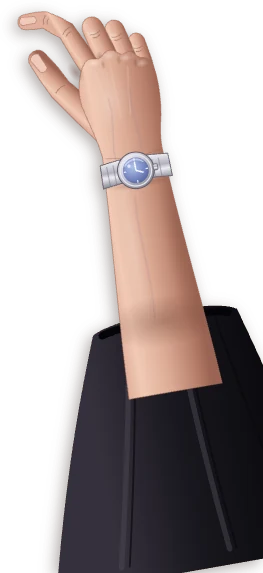
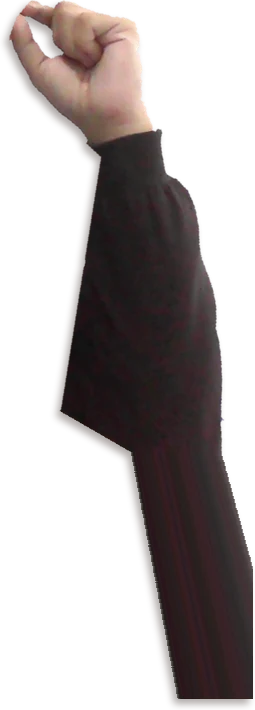
Use a photo of my own hand for the sunglasses gag
The hand that places the shades is now a cutout of the real thing
instead of the painted one. Two scripts beside the source photo
reproduce the art: one keys the hand off the wall, the other grades the
webcam grey up to the portrait's skin, swings the forearm towards
vertical and carries the sleeve past the bottom of the frame, since the
photo stops at the elbow. The drawn SVG stays, retired.

diff --git a/components/ProfileShades.vue b/components/ProfileShades.vue
@@ -5,7 +5,7 @@
       <img src="/profile-shades-glasses.webp" alt="" width="287" height="102" class="profile-shades__art" :style="GLASSES_BOX">
     </div>
     <div ref="handEl" class="profile-shades__layer">
-      <img src="/profile-shades-hand.webp" alt="" width="263" height="573" class="profile-shades__art" :style="HAND_BOX">
+      <img src="/profile-shades-hand.webp" alt="" width="255" height="710" class="profile-shades__art" :style="HAND_BOX">
     </div>
   </div>
 </template>
@@ -18,13 +18,14 @@ import { nextTick, onBeforeUnmount, onMounted, ref, watch } from 'vue'
  * back in Space it takes them off again. One timeline: forward puts them on, reverse takes them off,
  * so switching mid-way just turns around.
  *
- * The art is two pictures baked from assets/profile-shades/*.svg (shadows included): painting the
- * gradient-heavy SVGs live cost the first switch about a third of a second of GPU work.
+ * The glasses are baked from assets/profile-shades/glasses.svg (shadow included): painting the
+ * gradient-heavy SVG live cost the first switch about a third of a second of GPU work. The hand is
+ * Marvin's own, cut out of assets/profile-shades/source/1.jpg by the two scripts beside it.
  */
 
 /* Where each picture sits on the square photo, in % of its width */
 const GLASSES_BOX = { left: '30.56%', top: '23.75%', width: '39.86%' }
-const HAND_BOX = { left: '63.47%', top: '20.42%', width: '36.53%' }
+const HAND_BOX = { left: '64.86%', top: '25.14%', width: '35.42%' }
 /** Where the fingers pinch the glasses: both layers swing around this point */
 const PINCH = '68.3% 26.1%'
 

diff --git a/assets/profile-shades/source/2-bake.py b/assets/profile-shades/source/2-bake.py
@@ -1,0 +1,103 @@
+"""Step 2: bakes public/profile-shades-hand.webp from hand-cut.png.
+
+Grades the webcam's grey skin up to the portrait's, swings the forearm towards vertical, scales the
+hand against the face, carries the sleeve past the bottom of the frame (the photo stops at the elbow)
+and adds the same drop shadow the SVG art used. Prints the HAND_BOX percentages for ProfileShades.vue.
+
+    python assets/profile-shades/source/2-bake.py -30 0.80
+"""
+import sys, math
+from PIL import Image, ImageFilter
+import numpy as np
+
+BAKE='assets/profile-shades/source'
+ROT   = float(sys.argv[1]) if len(sys.argv) > 1 else -30.0
+SCALE = float(sys.argv[2]) if len(sys.argv) > 2 else 0.80
+RENDER = 720                      # the photo's baking width, as in the SVG sources
+PX, PY = 0.683*RENDER, 0.261*RENDER
+SKIN_TARGET = np.array([200.0, 165.0, 150.0])   # the portrait's cheek, a shade darker
+
+# ---- grade: the webcam is grey and hazy next to the studio portrait
+cut = Image.open(BAKE+'/hand-cut.png')
+a = np.asarray(cut).astype(float)
+rgb, alpha = a[...,:3], a[...,3]
+sel = (alpha > 200) & (rgb[...,0]-rgb[...,2] > 12) & (rgb@[0.299,0.587,0.114] > 110)
+def curve(x, g): return np.clip(255*((np.clip(x-8,0,None)/247)**1.08)*g, 0, 252)
+gains = []
+for ch in range(3):
+    lo, hi = 0.5, 3.0
+    for _ in range(40):
+        mid = (lo+hi)/2
+        if curve(rgb[...,ch][sel], mid).mean() < SKIN_TARGET[ch]: lo = mid
+        else: hi = mid
+    gains.append((lo+hi)/2)
+print('channel gains', [round(g,3) for g in gains])
+graded = np.stack([curve(rgb[...,ch], gains[ch]) for ch in range(3)], -1)
+cut = Image.fromarray(np.dstack([graded, alpha]).astype('uint8'))
+# the webcam leaves JPEG speckle the grade amplifies; median it out, keep the alpha crisp
+rgbp = Image.merge('RGB', cut.split()[:3]).filter(ImageFilter.MedianFilter(3))
+cut = Image.merge('RGBA', (*rgbp.split(), cut.split()[-1]))
+
+# ---- rotate + scale, tracking where the fingers pinch
+pinch = (689-686, 305-251)
+rot = cut.rotate(ROT, resample=Image.BICUBIC, expand=True)
+t = math.radians(ROT)
+dx, dy = pinch[0]-cut.width/2, pinch[1]-cut.height/2
+pr = (dx*math.cos(t) + dy*math.sin(t) + rot.width/2, -dx*math.sin(t) + dy*math.cos(t) + rot.height/2)
+art = rot.resize((round(rot.width*SCALE), round(rot.height*SCALE)), Image.LANCZOS)
+pa = (pr[0]*SCALE, pr[1]*SCALE)
+
+# ---- place on the photo-sized canvas, pinch on target
+ox, oy = round(PX-pa[0]), round(PY-pa[1])
+canvas = Image.new('RGBA', (RENDER, RENDER + 160), (0,0,0,0))
+canvas.alpha_composite(art, (ox, oy))
+arr = np.asarray(canvas).astype(float)
+
+# ---- the photo stops at the elbow; carry the sleeve down past the bottom of the frame
+al = arr[...,3] > 128
+ys = np.nonzero(al.any(1))[0]
+y_src = ys.max() - 46                      # a clean row above the diagonal cut
+xs = np.nonzero(al[y_src])[0]
+x0, x1 = xs.min(), xs.max()
+row = arr[y_src:y_src+1, x0:x1+1].copy()
+lean = math.radians(13)
+for i, y in enumerate(range(y_src+1, RENDER + 160)):
+    w = round((x1-x0+1) * (1 + 0.0009*i))
+    x = round(x0 + i*math.tan(lean) - (w-(x1-x0+1))/2)
+    strip = np.asarray(Image.fromarray(row.astype('uint8')).resize((w,1), Image.BICUBIC)).astype(float)[0]
+    x = max(0, min(x, arr.shape[1]-1))
+    strip = strip[:arr.shape[1]-x]
+    arr[y, x:x+len(strip)] = strip
+canvas = Image.fromarray(arr.astype('uint8'))
+
+# ---- shadow, as the SVG sources describe it: drop-shadow(-3.6 4.8 7.2 rgb(30 12 6 / .35))
+pad = 24
+big = Image.new('RGBA', (canvas.width+2*pad, canvas.height+2*pad), (0,0,0,0))
+big.alpha_composite(canvas, (pad, pad))
+sh_a = big.split()[-1].filter(ImageFilter.GaussianBlur(3.6)).point(lambda v: int(v*0.35))
+shadow = Image.new('RGBA', big.size, (30,12,6,0)); shadow.putalpha(sh_a)
+out = Image.new('RGBA', big.size, (0,0,0,0))
+out.alpha_composite(shadow, (round(-3.6), round(4.8)))
+out.alpha_composite(big)
+
+bbox = out.split()[-1].point(lambda v: 255 if v > 4 else 0).getbbox()
+final = out.crop(bbox)
+# box of the art inside the photo, in % of the photo's width (what ProfileShades needs)
+left = (bbox[0]-pad)/RENDER*100
+top  = (bbox[1]-pad)/RENDER*100
+width = final.width/RENDER*100
+print(f'HAND_BOX left {left:.2f}% top {top:.2f}% width {width:.2f}%  ({final.width}x{final.height})')
+final.save(BAKE+'/profile-shades-hand.webp', quality=88, method=6)
+final.save(BAKE+'/hand-final.png')
+import os; print('webp bytes', os.path.getsize(BAKE+'/profile-shades-hand.webp'))
+
+# preview on the portrait
+base = Image.open('public/profile.webp').convert('RGBA').resize((RENDER,RENDER), Image.LANCZOS)
+gl = Image.open('public/profile-shades-glasses.webp').convert('RGBA')
+gw = round(RENDER*0.3986); gl = gl.resize((gw, round(gl.height*gw/gl.width)), Image.LANCZOS)
+base.alpha_composite(gl, (round(RENDER*0.3056), round(RENDER*0.2375)))
+base.alpha_composite(final, (round(left/100*RENDER), round(top/100*RENDER)))
+mask = Image.new('L', base.size, 0)
+from PIL import ImageDraw; ImageDraw.Draw(mask).ellipse((0,0,RENDER-1,RENDER-1), fill=255)
+flat = Image.new('RGB', base.size, (244,247,250)); flat.paste(base.convert('RGB'), (0,0), mask)
+flat.save(BAKE+'/preview-final.png')

diff --git a/assets/profile-shades/source/1-cut.py b/assets/profile-shades/source/1-cut.py
@@ -1,0 +1,72 @@
+"""Step 1 of the hand art: lifts the hand and sleeve out of the webcam photo (1.jpg).
+
+The wall is bright and neutral, the skin is warm and the sleeve is near-black, so a colour rule
+separates them; a polygon cuts away his head, his spectacles and his torso, where no threshold could.
+Writes hand-cut.png (and hand-cut-check.png on magenta, to eyeball the edge).
+
+    python assets/profile-shades/source/1-cut.py
+"""
+from PIL import Image, ImageDraw, ImageFilter
+import numpy as np
+from collections import deque
+
+SRC='assets/profile-shades/source/1.jpg'
+OUT='assets/profile-shades/source'
+im = Image.open(SRC).convert('RGB')
+a = np.asarray(im).astype(int)
+R,G,B = a[...,0],a[...,1],a[...,2]
+lum = (R*0.299+G*0.587+B*0.114)
+
+POLY=[(710,240),(900,240),(1000,330),(1080,470),(1160,600),(1215,720),(980,720),(865,420),
+      (760,395),(700,370),(690,345),(686,320),(690,296),(700,272)]
+region = Image.new('L', im.size, 0)
+ImageDraw.Draw(region).polygon(POLY, fill=255)
+reg = np.asarray(region) > 0
+
+fg = (((R-B > 12) & (lum < 210)) | (lum < 110)) & reg
+# A dark wedge of his spectacle frame sits on the index finger; the frame is not part of the hand
+yy, xx = np.mgrid[0:a.shape[0], 0:a.shape[1]]
+fg &= ~((xx >= 686) & (xx <= 710) & (yy >= 262) & (yy <= 300) & (lum < 125))
+m = Image.fromarray((fg*255).astype('uint8'))
+m = m.filter(ImageFilter.MaxFilter(3)).filter(ImageFilter.MinFilter(3))
+m = m.filter(ImageFilter.MinFilter(3)).filter(ImageFilter.MaxFilter(3))
+arr = np.asarray(m) > 0
+h,w = arr.shape
+
+def components(mask):
+    seen = np.zeros_like(mask); out=[]
+    ys,xs = np.nonzero(mask)
+    for sy,sx in zip(ys,xs):
+        if seen[sy,sx]: continue
+        q=deque([(sy,sx)]); seen[sy,sx]=True; comp=[]
+        while q:
+            y,x=q.popleft(); comp.append((y,x))
+            for dy,dx in ((1,0),(-1,0),(0,1),(0,-1)):
+                ny,nx=y+dy,x+dx
+                if 0<=ny<h and 0<=nx<w and mask[ny,nx] and not seen[ny,nx]:
+                    seen[ny,nx]=True; q.append((ny,nx))
+        out.append(comp)
+    return out
+
+comps = components(arr)
+comps.sort(key=len, reverse=True)
+keep = np.zeros_like(arr)
+for y,x in comps[0]: keep[y,x]=True
+
+# fill only pinholes; the gap between thumb and finger must stay see-through
+inv = ~keep
+holes = [c for c in components(inv) if not any(y in (0,h-1) or x in (0,w-1) for y,x in c)]
+for c in holes:
+    if len(c) < 220:
+        for y,x in c: keep[y,x]=True
+print('kept', keep.sum(), 'holes left', sum(1 for c in holes if len(c) >= 220))
+
+alpha = Image.fromarray((keep*255).astype('uint8'))
+alpha = alpha.filter(ImageFilter.MinFilter(3))
+alpha = alpha.filter(ImageFilter.GaussianBlur(0.7))
+cut = im.copy(); cut.putalpha(alpha)
+bbox = alpha.point(lambda v: 255 if v > 8 else 0).getbbox()
+print('bbox', bbox)
+c = cut.crop(bbox)
+c.save(OUT+'/hand-cut.png')
+Image.alpha_composite(Image.new('RGBA', c.size, (255,0,255,255)), c).save(OUT+'/hand-cut-check.png')
